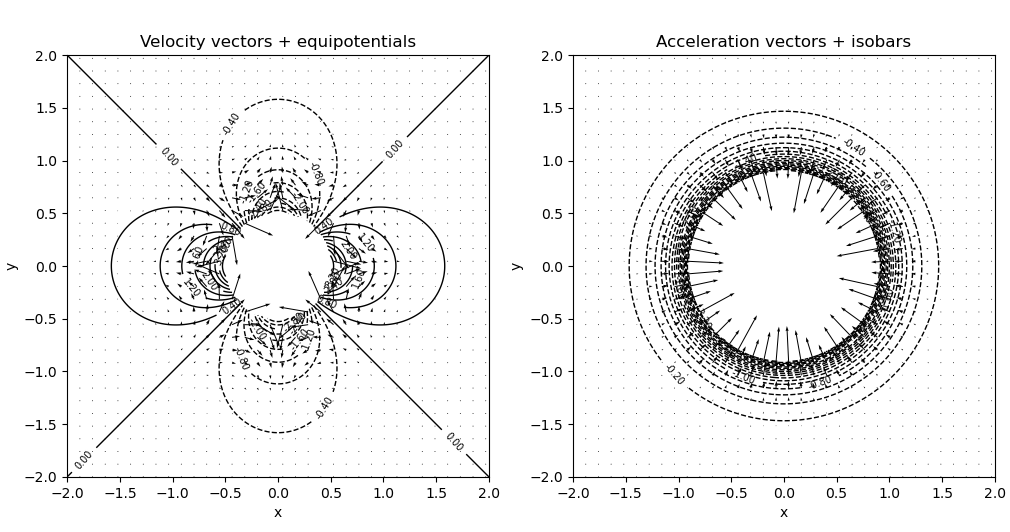
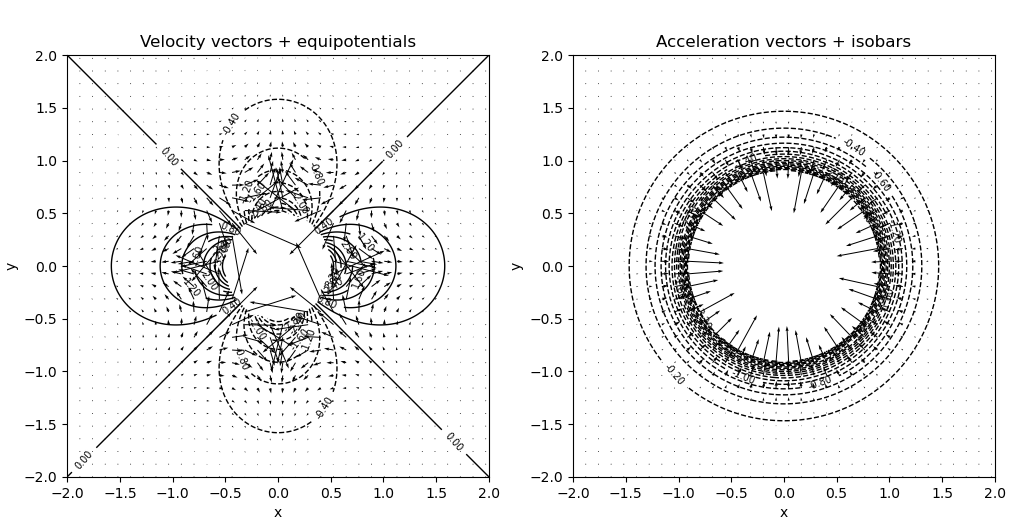
HW19 fix

diff --git a/HW19/IFM_HW19_p8.7.py b/HW19/IFM_HW19_p8.7.py
@@ -88,7 +88,7 @@ fig2, ax2 = plt.subplots(1,1, figsize=(8,8))
 # Left: quiver  + equipotential contours
 step = 12
 axs[0].quiver(XX[::step, ::step], YY[::step, ::step],
-              U_plot[::step, ::step], V_plot[::step, ::step], scale=200)
+              U_plot[::step, ::step], V_plot[::step, ::step], scale=100)
 cs = axs[0].contour(XX, YY, PHI_plot, levels=20, colors='k', linewidths=1)
 axs[0].clabel(cs, inline=True, fontsize=7, fmt="%.2f")
 axs[0].set_title("Velocity vectors + equipotentials")
